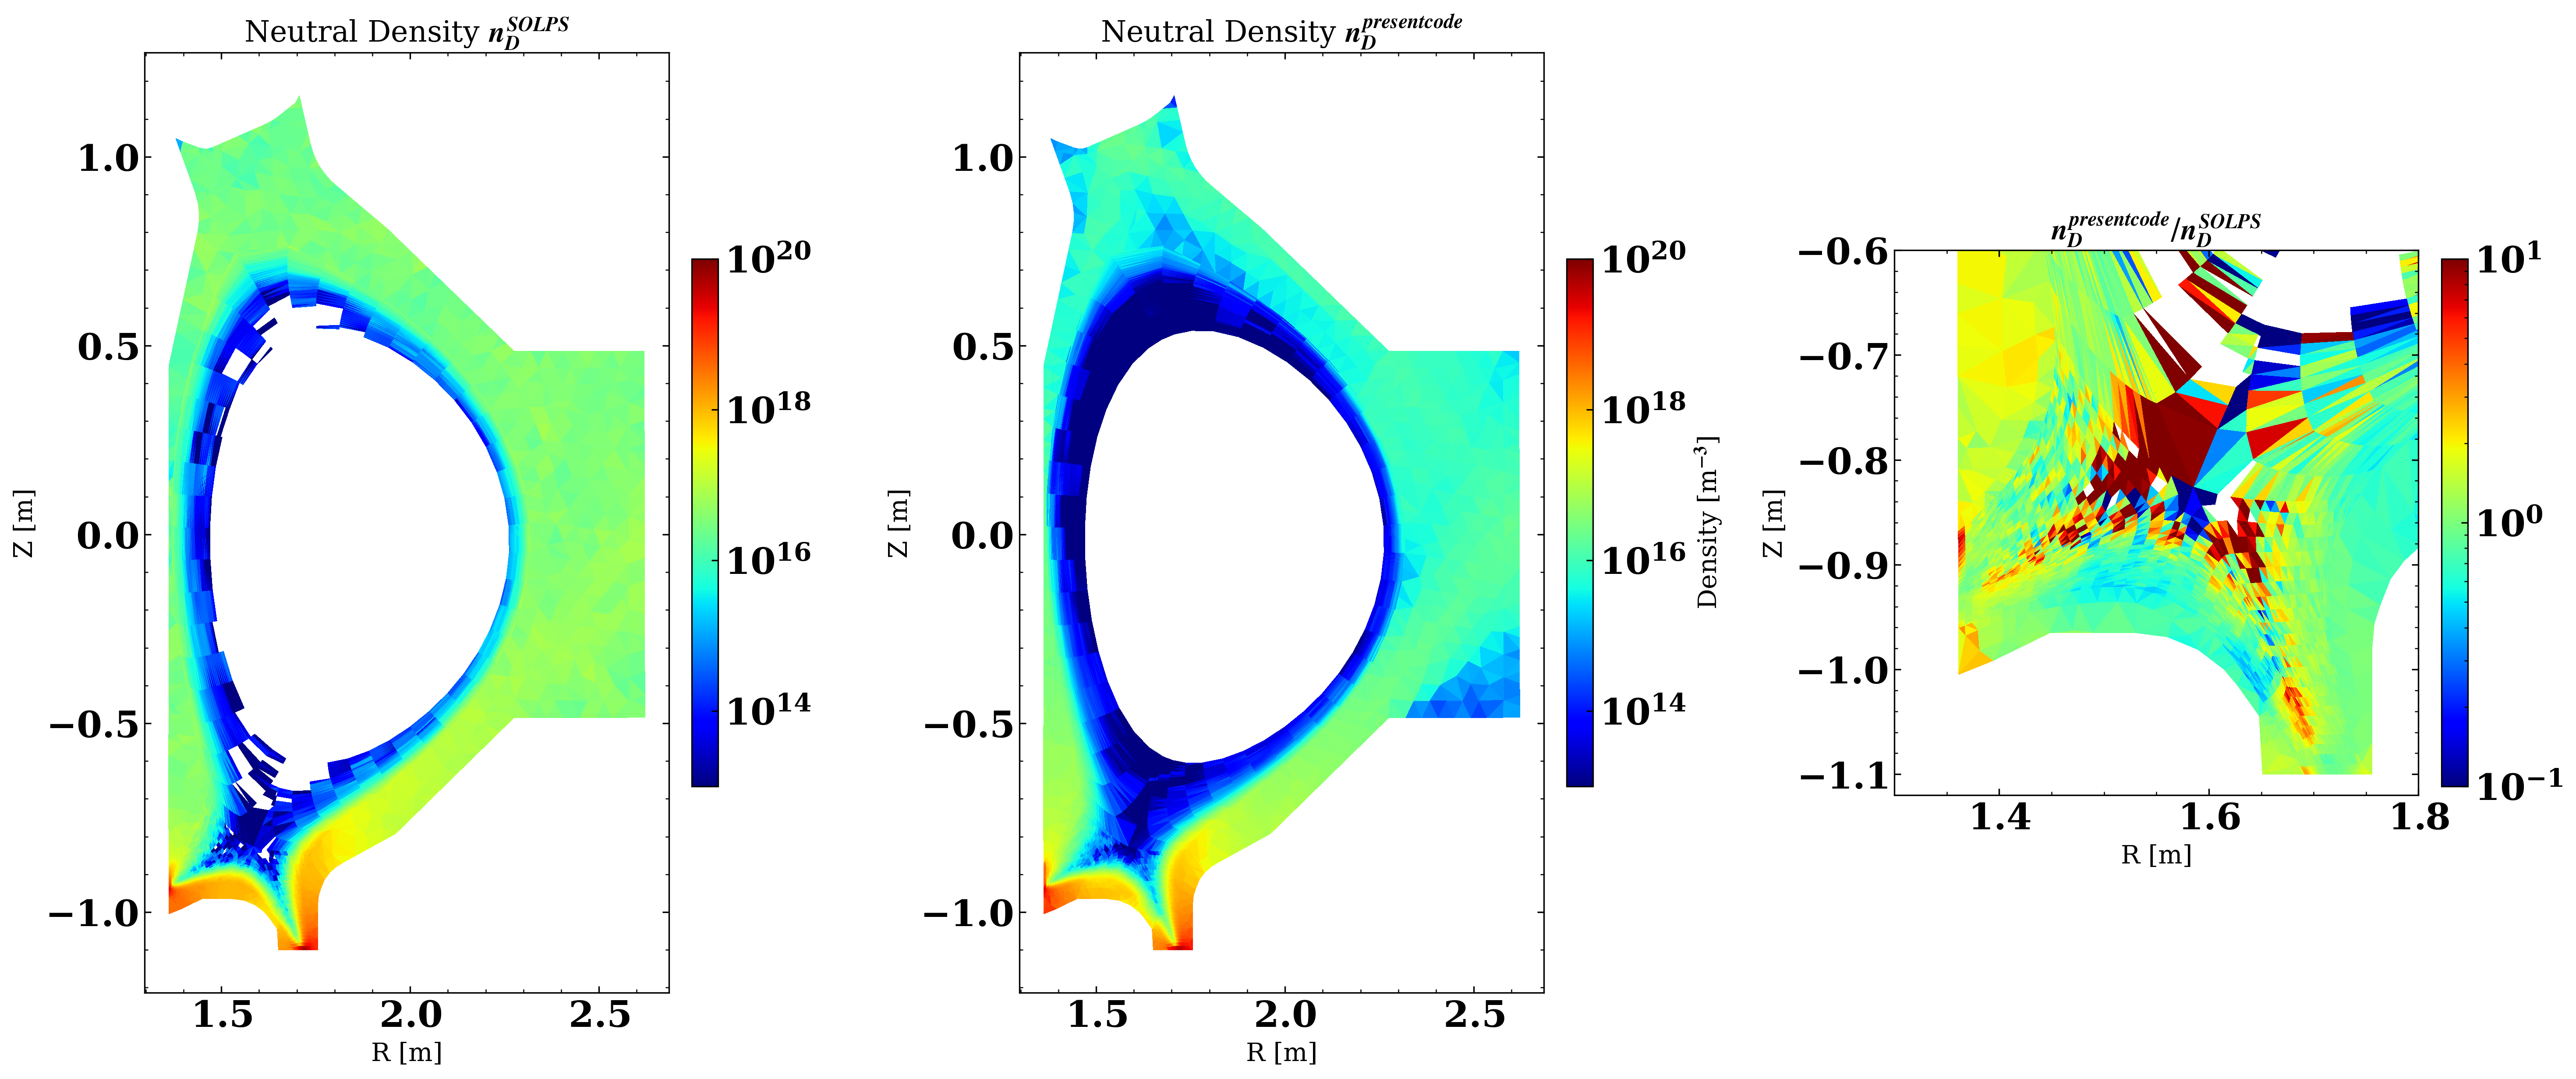
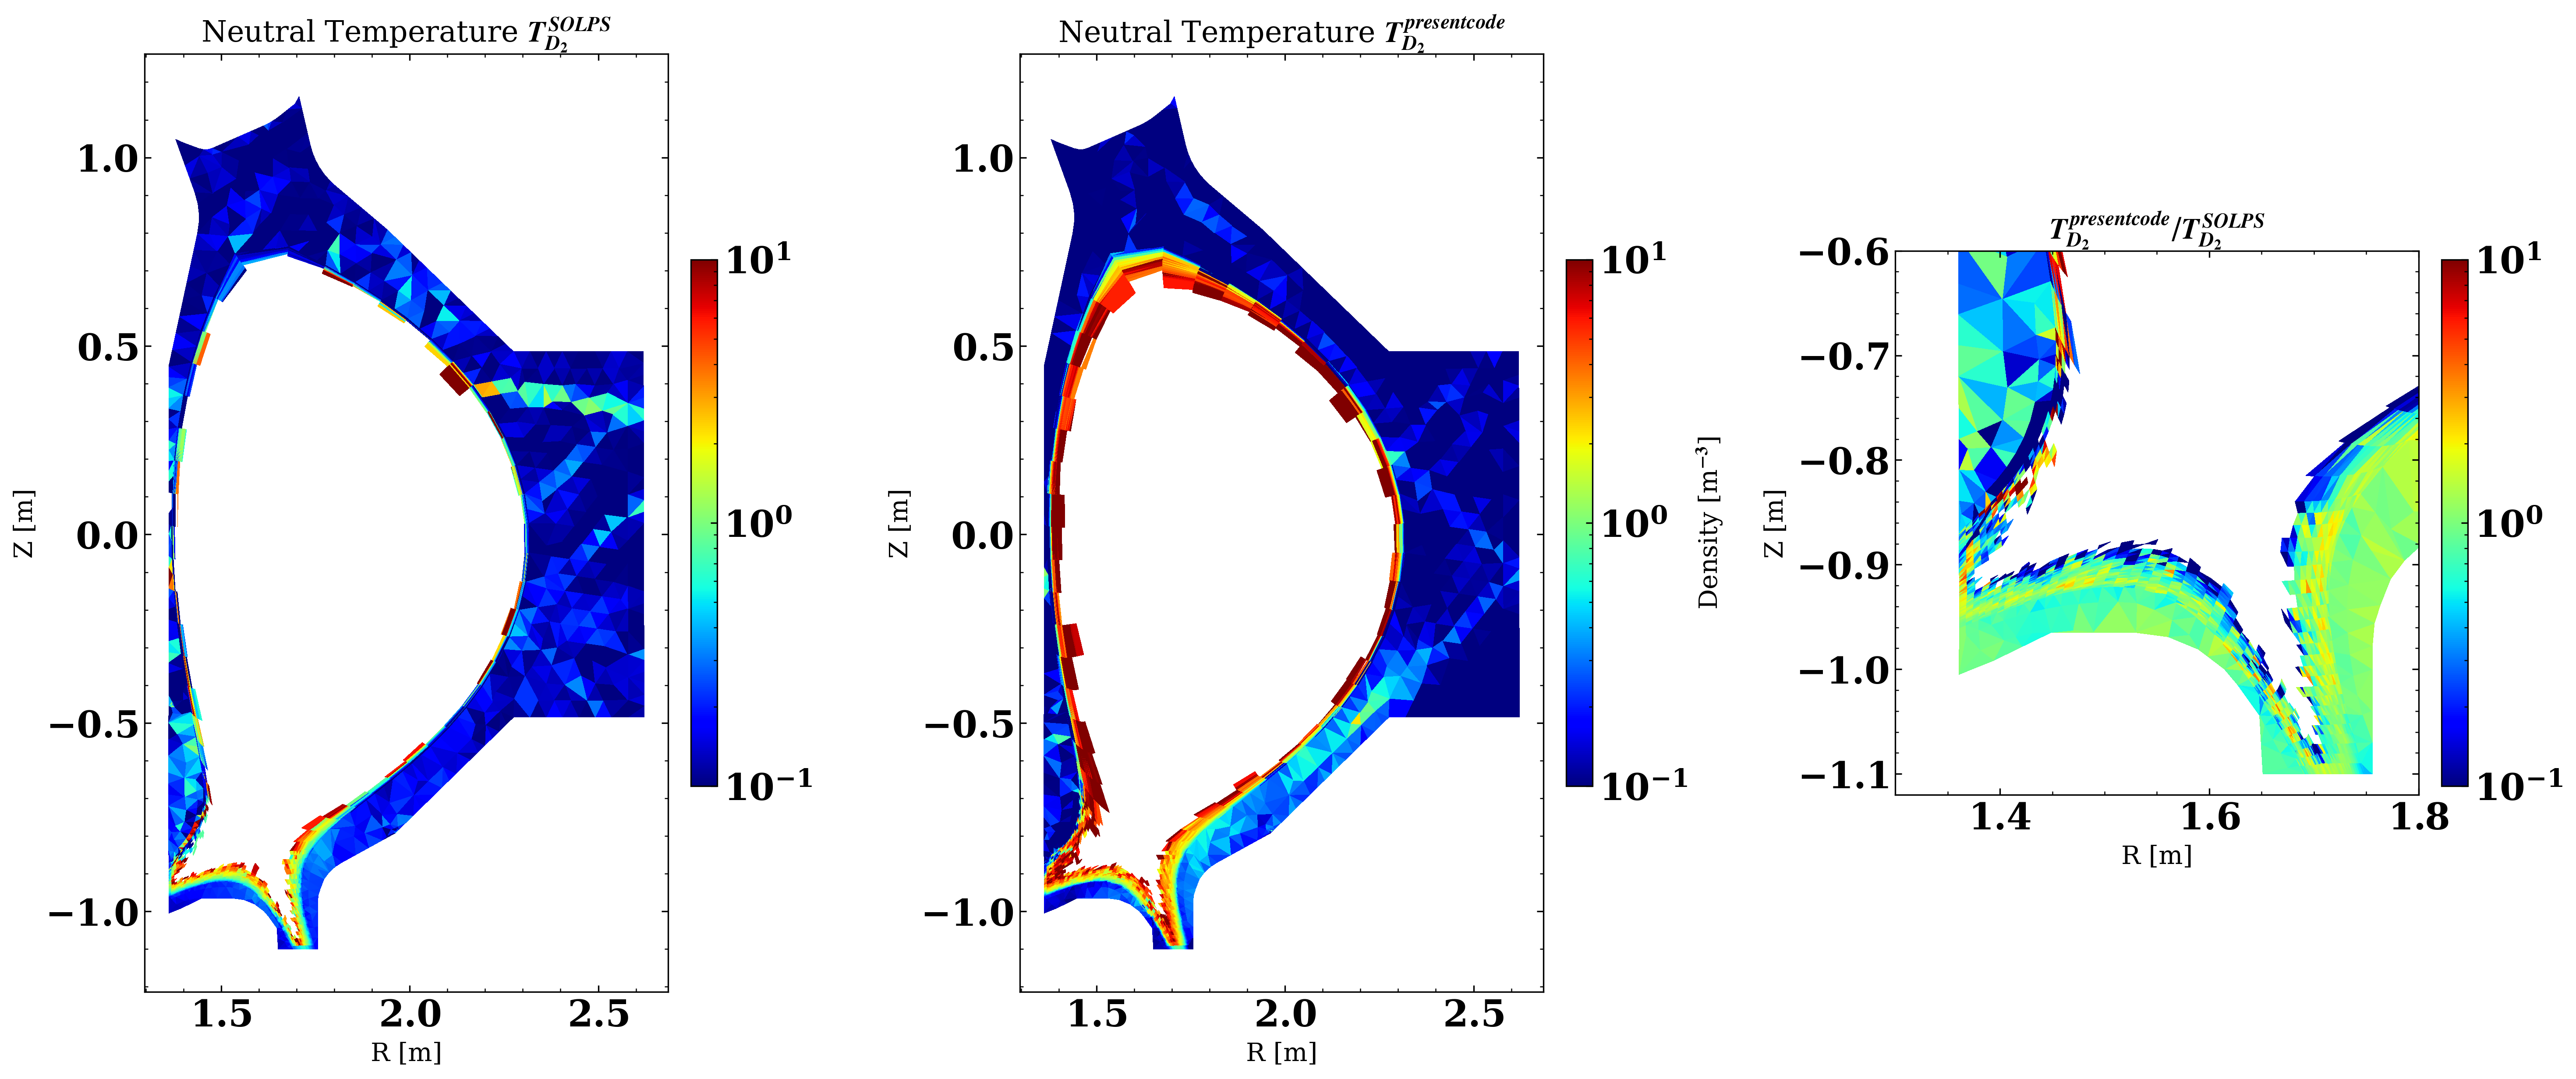
20260611_器壁反射修改大一统完成，测试中；加速修改前备份

diff --git a/src/Prepare.cpp b/src/Prepare.cpp
@@ -758,6 +758,26 @@ void Prepare()
 		std::cout << endl;
 	}*/
 
+	std::vector<double> angle_B_with_target(N_radial * 2);
+	if (1) // 0: 固定角度60度； 1：实际角度
+		for (int i = 0; i < N_radial; i++)
+		{
+			angle_B_with_target[i] = Tools::CalBFieldToWallNormalAngle(B[1][i][0], B[1][i][1], B[1][i][2], Grid4.Cos_Target(i), Grid4.Sin_Target(i));
+			angle_B_with_target[i + N_radial] = Tools::CalBFieldToWallNormalAngle(B[N_radial - 2][i][0], B[N_radial - 2][i][1], B[N_radial - 2][i][2], Grid4.Cos_Target(i + N_radial), Grid4.Sin_Target(i + N_radial));
+		}
+	else
+	{
+		for (int i = 0; i < N_radial * 2; i++)
+		{
+			angle_B_with_target[i] = 60;
+		}
+	}
+	/*ofstream Out_temp("doc/angel.txt");
+	for (int i = 0; i < N_radial * 2; i++)
+	{
+		Out_temp << i << "\t" << angle_B_with_target[i] << endl;
+	}
+	Out_temp.close();*/
 	// H recycling
 	if (K_H)
 	{
@@ -765,16 +785,16 @@ void Prepare()
 		{
 			for (int i = 0; i < N_radial * 2; i++)
 			{
-				if (coeff_recyc_target > H_W.n_RefCoeff(K_Reflect, Ei_Dion[i]))
+				if (coeff_recyc_target > H_W.n_RefCoeff(K_Reflect, Ei_Dion[i], angle_B_with_target[i]))
 				{
-					NumPar_H_recyc[i] = NumPar_wall_H[i] * H_W.n_RefCoeff(K_Reflect, Ei_Dion[i]);
-					Tn_H_recyc[i] = H_W.E_RefCoeff(K_Reflect, Ei_Dion[i]) / H_W.n_RefCoeff(K_Reflect, Ei_Dion[i]) * Ei_Dion[i] / 1.5;
-					NumPar_H2_recyc[i] = (coeff_recyc_target - H_W.n_RefCoeff(K_Reflect, Ei_Dion[i])) * NumPar_wall_H[i] / 2.;
+					NumPar_H_recyc[i] = NumPar_wall_H[i] * H_W.n_RefCoeff(K_Reflect, Ei_Dion[i], angle_B_with_target[i]);
+					Tn_H_recyc[i] = H_W.E_RefCoeff(K_Reflect, Ei_Dion[i], angle_B_with_target[i]) / H_W.n_RefCoeff(K_Reflect, Ei_Dion[i], angle_B_with_target[i]) * Ei_Dion[i] / 1.5;
+					NumPar_H2_recyc[i] = (coeff_recyc_target - H_W.n_RefCoeff(K_Reflect, Ei_Dion[i], angle_B_with_target[i])) * NumPar_wall_H[i] / 2.;
 				}
 				else
 				{
 					NumPar_H_recyc[i] = NumPar_wall_H[i] * coeff_recyc_target;
-					Tn_H_recyc[i] = H_W.E_RefCoeff(K_Reflect, Ei_Dion[i]) / coeff_recyc_target * Ei_Dion[i] / 1.5;
+					Tn_H_recyc[i] = H_W.E_RefCoeff(K_Reflect, Ei_Dion[i], angle_B_with_target[i]) / coeff_recyc_target * Ei_Dion[i] / 1.5;
 					NumPar_H2_recyc[i] = 0.;
 				}
 			}
@@ -783,17 +803,17 @@ void Prepare()
 		{
 			for (int i = 0; i < N_radial * 2; i++)
 			{
-				if (coeff_recyc_target > H_C.n_RefCoeff(K_Reflect, Ei_Dion[i]))
+				if (coeff_recyc_target > H_C.n_RefCoeff(K_Reflect, Ei_Dion[i], angle_B_with_target[i]))
 				{
-					NumPar_H_recyc[i] = NumPar_wall_H[i] * H_C.n_RefCoeff(K_Reflect, Ei_Dion[i]);
-					Tn_H_recyc[i] = H_C.E_RefCoeff(K_Reflect, Ei_Dion[i]) / H_C.n_RefCoeff(K_Reflect, Ei_Dion[i]) * Ei_Dion[i] / 1.5;
-					NumPar_H2_recyc[i] = (coeff_recyc_target - H_C.n_RefCoeff(K_Reflect, Ei_Dion[i])) *
+					NumPar_H_recyc[i] = NumPar_wall_H[i] * H_C.n_RefCoeff(K_Reflect, Ei_Dion[i], angle_B_with_target[i]);
+					Tn_H_recyc[i] = H_C.E_RefCoeff(K_Reflect, Ei_Dion[i], angle_B_with_target[i]) / H_C.n_RefCoeff(K_Reflect, Ei_Dion[i], angle_B_with_target[i]) * Ei_Dion[i] / 1.5;
+					NumPar_H2_recyc[i] = (coeff_recyc_target - H_C.n_RefCoeff(K_Reflect, Ei_Dion[i], angle_B_with_target[i])) *
 										 NumPar_wall_H[i] / 2.;
 				}
 				else
 				{
 					NumPar_H_recyc[i] = NumPar_wall_H[i] * coeff_recyc_target;
-					Tn_H_recyc[i] = H_C.E_RefCoeff(K_Reflect, Ei_Dion[i]) / coeff_recyc_target * Ei_Dion[i] / 1.5;
+					Tn_H_recyc[i] = H_C.E_RefCoeff(K_Reflect, Ei_Dion[i], angle_B_with_target[i]) / coeff_recyc_target * Ei_Dion[i] / 1.5;
 					NumPar_H2_recyc[i] = 0.;
 				}
 			}
@@ -813,16 +833,16 @@ void Prepare()
 		{
 			for (int i = 0; i < N_radial * 2; i++)
 			{
-				if (coeff_recyc_target > D_W.n_RefCoeff(K_Reflect, Ei_Dion[i]))
+				if (coeff_recyc_target > D_W.n_RefCoeff(K_Reflect, Ei_Dion[i], angle_B_with_target[i]))
 				{
-					NumPar_D_recyc[i] = NumPar_wall_D[i] * D_W.n_RefCoeff(K_Reflect, Ei_Dion[i]);
-					Tn_D_recyc[i] = D_W.E_RefCoeff(K_Reflect, Ei_Dion[i]) / D_W.n_RefCoeff(K_Reflect, Ei_Dion[i]) * Ei_Dion[i] / 1.5;
-					NumPar_D2_recyc[i] = (coeff_recyc_target - D_W.n_RefCoeff(K_Reflect, Ei_Dion[i])) * NumPar_wall_D[i] / 2.;
+					NumPar_D_recyc[i] = NumPar_wall_D[i] * D_W.n_RefCoeff(K_Reflect, Ei_Dion[i], angle_B_with_target[i]);
+					Tn_D_recyc[i] = D_W.E_RefCoeff(K_Reflect, Ei_Dion[i], angle_B_with_target[i]) / D_W.n_RefCoeff(K_Reflect, Ei_Dion[i], angle_B_with_target[i]) * Ei_Dion[i] / 1.5;
+					NumPar_D2_recyc[i] = (coeff_recyc_target - D_W.n_RefCoeff(K_Reflect, Ei_Dion[i], angle_B_with_target[i])) * NumPar_wall_D[i] / 2.;
 				}
 				else
 				{
 					NumPar_D_recyc[i] = NumPar_wall_D[i] * coeff_recyc_target;
-					Tn_D_recyc[i] = D_W.E_RefCoeff(K_Reflect, Ei_Dion[i]) / coeff_recyc_target * Ei_Dion[i] / 1.5;
+					Tn_D_recyc[i] = D_W.E_RefCoeff(K_Reflect, Ei_Dion[i], angle_B_with_target[i]) / coeff_recyc_target * Ei_Dion[i] / 1.5;
 					NumPar_D2_recyc[i] = 0.;
 				}
 				// out << NumPar_D_recyc[i] << '\t' << NumPar_D2_recyc[i] << endl;
@@ -832,16 +852,16 @@ void Prepare()
 		{
 			for (int i = 0; i < N_radial * 2; i++)
 			{
-				if (coeff_recyc_target > D_C.n_RefCoeff(K_Reflect, Ei_Dion[i]))
+				if (coeff_recyc_target > D_C.n_RefCoeff(K_Reflect, Ei_Dion[i], angle_B_with_target[i]))
 				{
-					NumPar_D_recyc[i] = NumPar_wall_D[i] * D_C.n_RefCoeff(K_Reflect, Ei_Dion[i]);
-					Tn_D_recyc[i] = D_C.E_RefCoeff(K_Reflect, Ei_Dion[i]) / D_C.n_RefCoeff(K_Reflect, Ei_Dion[i]) * Ei_Dion[i] / 1.5;
-					NumPar_D2_recyc[i] = (coeff_recyc_target - D_C.n_RefCoeff(K_Reflect, Ei_Dion[i])) * NumPar_wall_D[i] / 2.;
+					NumPar_D_recyc[i] = NumPar_wall_D[i] * D_C.n_RefCoeff(K_Reflect, Ei_Dion[i], angle_B_with_target[i]);
+					Tn_D_recyc[i] = D_C.E_RefCoeff(K_Reflect, Ei_Dion[i], angle_B_with_target[i]) / D_C.n_RefCoeff(K_Reflect, Ei_Dion[i], angle_B_with_target[i]) * Ei_Dion[i] / 1.5;
+					NumPar_D2_recyc[i] = (coeff_recyc_target - D_C.n_RefCoeff(K_Reflect, Ei_Dion[i], angle_B_with_target[i])) * NumPar_wall_D[i] / 2.;
 				}
 				else
 				{
 					NumPar_D_recyc[i] = NumPar_wall_D[i] * coeff_recyc_target;
-					Tn_D_recyc[i] = D_C.E_RefCoeff(K_Reflect, Ei_Dion[i]) / coeff_recyc_target * Ei_Dion[i] / 1.5;
+					Tn_D_recyc[i] = D_C.E_RefCoeff(K_Reflect, Ei_Dion[i], angle_B_with_target[i]) / coeff_recyc_target * Ei_Dion[i] / 1.5;
 					NumPar_D2_recyc[i] = 0.;
 				}
 				// out << NumPar_D_recyc[i] << '\t' << NumPar_D2_recyc[i] << endl;
@@ -863,16 +883,16 @@ void Prepare()
 		{
 			for (int i = 0; i < N_radial * 2; i++)
 			{
-				if (coeff_recyc_target > T_W.n_RefCoeff(K_Reflect, Ei_Dion[i]))
+				if (coeff_recyc_target > T_W.n_RefCoeff(K_Reflect, Ei_Dion[i], angle_B_with_target[i]))
 				{
-					NumPar_T_recyc[i] = NumPar_wall_T[i] * T_W.n_RefCoeff(K_Reflect, Ei_Dion[i]);
-					Tn_T_recyc[i] = T_W.E_RefCoeff(K_Reflect, Ei_Dion[i]) / T_W.n_RefCoeff(K_Reflect, Ei_Dion[i]) * Ei_Dion[i] / 1.5;
-					NumPar_T2_recyc[i] = (coeff_recyc_target - T_W.n_RefCoeff(K_Reflect, Ei_Dion[i])) * NumPar_wall_T[i] / 2.;
+					NumPar_T_recyc[i] = NumPar_wall_T[i] * T_W.n_RefCoeff(K_Reflect, Ei_Dion[i], angle_B_with_target[i]);
+					Tn_T_recyc[i] = T_W.E_RefCoeff(K_Reflect, Ei_Dion[i], angle_B_with_target[i]) / T_W.n_RefCoeff(K_Reflect, Ei_Dion[i], angle_B_with_target[i]) * Ei_Dion[i] / 1.5;
+					NumPar_T2_recyc[i] = (coeff_recyc_target - T_W.n_RefCoeff(K_Reflect, Ei_Dion[i], angle_B_with_target[i])) * NumPar_wall_T[i] / 2.;
 				}
 				else
 				{
 					NumPar_T_recyc[i] = NumPar_wall_T[i] * coeff_recyc_target;
-					Tn_T_recyc[i] = T_W.E_RefCoeff(K_Reflect, Ei_Dion[i]) / coeff_recyc_target * Ei_Dion[i] / 1.5;
+					Tn_T_recyc[i] = T_W.E_RefCoeff(K_Reflect, Ei_Dion[i], angle_B_with_target[i]) / coeff_recyc_target * Ei_Dion[i] / 1.5;
 					NumPar_T2_recyc[i] = 0.;
 				}
 			}
@@ -881,16 +901,16 @@ void Prepare()
 		{
 			for (int i = 0; i < N_radial * 2; i++)
 			{
-				if (coeff_recyc_target > T_C.n_RefCoeff(K_Reflect, Ei_Dion[i]))
+				if (coeff_recyc_target > T_C.n_RefCoeff(K_Reflect, Ei_Dion[i], angle_B_with_target[i]))
 				{
-					NumPar_T_recyc[i] = NumPar_wall_T[i] * T_C.n_RefCoeff(K_Reflect, Ei_Dion[i]);
-					Tn_T_recyc[i] = T_C.E_RefCoeff(K_Reflect, Ei_Dion[i]) / T_C.n_RefCoeff(K_Reflect, Ei_Dion[i]) * Ei_Dion[i] / 1.5;
-					NumPar_T2_recyc[i] = (coeff_recyc_target - T_C.n_RefCoeff(K_Reflect, Ei_Dion[i])) * NumPar_wall_T[i] / 2.;
+					NumPar_T_recyc[i] = NumPar_wall_T[i] * T_C.n_RefCoeff(K_Reflect, Ei_Dion[i], angle_B_with_target[i]);
+					Tn_T_recyc[i] = T_C.E_RefCoeff(K_Reflect, Ei_Dion[i], angle_B_with_target[i]) / T_C.n_RefCoeff(K_Reflect, Ei_Dion[i], angle_B_with_target[i]) * Ei_Dion[i] / 1.5;
+					NumPar_T2_recyc[i] = (coeff_recyc_target - T_C.n_RefCoeff(K_Reflect, Ei_Dion[i], angle_B_with_target[i])) * NumPar_wall_T[i] / 2.;
 				}
 				else
 				{
 					NumPar_T_recyc[i] = NumPar_wall_T[i] * coeff_recyc_target;
-					Tn_T_recyc[i] = T_C.E_RefCoeff(K_Reflect, Ei_Dion[i]) / coeff_recyc_target * Ei_Dion[i] / 1.5;
+					Tn_T_recyc[i] = T_C.E_RefCoeff(K_Reflect, Ei_Dion[i], angle_B_with_target[i]) / coeff_recyc_target * Ei_Dion[i] / 1.5;
 					NumPar_T2_recyc[i] = 0.;
 				}
 			}

diff --git a/src/utils.cpp b/src/utils.cpp
@@ -356,6 +356,78 @@ namespace Tools
 
         return 0; // 不相交
     }
+    /**
+     * @brief 计算磁场方向与器壁法线之间的夹角（返回 0~90 度）
+     * * @param bx         磁场 X 分量
+     * @param by         磁场 Y 分量
+     * @param bz         磁场 Z 分量
+     * @param cos_wall   器壁倾斜角的 cos 值
+     * @param sin_wall   器壁倾斜角的 sin 值
+     * @return double    返回夹角（角度制：Degree）
+     */
+    double CalBFieldToWallNormalAngle(double bx, double by, double bz, double cos_wall, double sin_wall)
+    {
+        // 1. 计算三维磁场向量的模长 |B|
+        double b_mod_sq = bx * bx + by * by + bz * bz;
+
+        // 安全校验：防止强磁场为 0 区域导致除零崩溃
+        if (b_mod_sq <= 1e-12)
+        {
+            return 0.0;
+        }
+        double b_mod = std::sqrt(b_mod_sq);
+
+        // 2. 计算点积 (Dot Product)
+        // 根据你第一道题的物理模型：器壁方向为 (cos, sin, 0)，则法线方向为 (sin, -cos, 0)
+        // 磁场 B(bx, by, bz) 与法线 n(sin, -cos, 0) 的点积为： bx * sin - by * cos
+        double dot_product_abs = std::abs(bx * sin_wall - by * cos_wall);
+
+        /* 💡 备用情况提醒：
+           如果你传入的 (cos_wall, sin_wall, 0) 本身就已经直接是【法线向量】了，
+           请将上面的代码改成下面这一行：
+           double dot_product_abs = std::abs(bx * cos_wall + by * sin_wall);
+        */
+
+        // 3. 计算 cos(theta) 值，器壁法线的模长默认已归一化（cos^2 + sin^2 = 1）
+        double cos_theta = dot_product_abs / b_mod;
+
+        // 4. 防御性截断：防止浮点数精度误差（如变成 1.00000001）导致 acos 吐出 NaN
+        cos_theta = std::clamp(cos_theta, 0.0, 1.0);
+
+        // 5. 将弧度转换为角度（适合 TRIM 数据库查表）
+        const double PI = 3.14159265358979323846;
+        return (180.0 / PI) * std::acos(cos_theta);
+    }
+    /**
+     * @brief 校验并修正入射离子速度，防止其远离靶板
+     * @param V          离子速度数组，长度为 3 (V[0]=Vx, V[1]=Vy, V[2]=Vz) -> 将在函数内直接修改
+     * @param bx, by, bz 磁场三维分量
+     * @param cos_wall   器壁倾斜角 cos 值
+     * @param sin_wall   器壁倾斜角 sin 值
+     */
+    void AdjustIncidentVelocity(std::vector<double> &V, double bx, double by, double bz, double cos_wall, double sin_wall)
+    {
+        // 1. 定义器壁的法向量 n = (sin_wall, -cos_wall, 0)
+        // 注意：该法向需要与你网格定义的“里外”一致。这里沿用你之前的点积公式格式：
+        double nx = sin_wall;
+        double ny = -cos_wall;
+
+        // 2. 计算速度 V 和磁场 B 在器壁法线方向的投影（点积）
+        double Vn = V[0] * nx + V[1] * ny;
+        double Bn = bx * nx + by * ny;
+
+        // 3. 核心物理逻辑判断：
+        // 如果 Vn * Bn < 0，说明磁场引导的方向是指向靶板的，但粒子的法向速度却背离了靶板（两者反向了）
+        if (Vn * Bn < 0.0)
+        {
+            // 4. 修正速度：将法向速度分量直接反转（相当于让它朝靶板方向推进）
+            // 物理公式：V_new = V - 2 * Vn * n
+            V[0] = V[0] - 2.0 * Vn * nx;
+            V[1] = V[1] - 2.0 * Vn * ny;
+
+            // Z 轴速度平行于二维靶板表面，通常不需要反转
+        }
+    }
 }
 
 void get_point_to_y_line(double p1x, double p1y, double p2x, double p2y, double *y0)

diff --git a/src/Particle.cpp b/src/Particle.cpp
@@ -110,7 +110,7 @@ Particle::Particle(string particle_name, double mass, int MaxCharge, int Index)
 
 Particle::~Particle()
 {
-	for (int i = 0; i < 98; i++)
+	/*for (int i = 0; i < 98; i++)
 	{
 		for (int j = 0; j < 38; j++)
 		{
@@ -163,7 +163,7 @@ Particle::~Particle()
 	{
 		free(lambda_min_);
 		lambda_min_ = nullptr;
-	}
+	}*/
 }
 
 /// @brief Particle *this get Particle *A's All
@@ -411,28 +411,21 @@ void Particle::Init(int k, int z)
 		boundary_start_ = 0;
 		X_[0] = Grid4.Mid_Target(z, 0);
 		X_[1] = Grid4.Mid_Target(z, 1);
-		// double rand_temp = Tools::Random();
-		// X_[0] = Xrecycling(rand_temp, z, 0);
-		// X_[1] = Xrecycling(rand_temp, z, 1);
 		X_[2] = 0;
 
-		double Bt_temp, B2_temp;
 		if (z < 38)
 		{
 			XY_[0] = 1;
 			XY_[1] = z;
 			Tri_Index_ = Grid4.targetIndex(z, 0);
-			B2_temp = sqrt(B[1][z][0] * B[1][z][0] + B[1][z][1] * B[1][z][1]);
-			Bt_temp = B[1][z][2];
 		}
 		else
 		{
 			XY_[0] = 96;
 			XY_[1] = z - 38;
 			Tri_Index_ = Grid4.targetIndex(z, 0);
-			B2_temp = sqrt(B[96][XY_[1]][0] * B[96][XY_[1]][0] + B[96][XY_[1]][1] * B[96][XY_[1]][1]);
-			Bt_temp = B[96][XY_[1]][2];
 		}
+		Tools::AdjustIncidentVelocity(V_, B[XY_[0]][XY_[1]][0], B[XY_[0]][XY_[1]][1], B[XY_[0]][XY_[1]][2], Grid4.Cos_Target(z), Grid4.Cos_Target(z));
 		if (XY_[1] >= 19 && XY_[1] <= 36)
 			Zone_ = 3;
 		else if (XY_[0] <= 24)
@@ -446,7 +439,7 @@ void Particle::Init(int k, int z)
 		if (this == &H || this == &D || this == &T)
 		{
 			Tn_ = T_Init_[z];
-			Tools::calculateReflectionVelocity(V_, Grid4.Cos_Target(z), Grid4.Sin_Target(z), 1);
+			Tools::calculateReflectionVelocity(V_, Grid4.Cos_Target(z), Grid4.Sin_Target(z), 0);
 		}
 		else if (this == &H2 || this == &D2 || this == &T2)
 		{

diff --git a/src/Moncar.cpp b/src/Moncar.cpp
@@ -275,14 +275,6 @@ void Moncar()
     {
         Ar.Stat(2);
     }
-    /*free(*epx);
-    free(*epy);
-    free(*erx);
-    free(*ery);
-    free(epx);
-    free(epy);
-    free(erx);
-    free(ery);*/
 }
 
 void flight(int i, int j)

diff --git a/src/Global.cpp b/src/Global.cpp
@@ -80,8 +80,8 @@ double Dn[38];
 /// @brief Plasma and device parameter
 double InterscePoint[10][6] = {0}; // 0: distance of particle and interscePoint; 1,2: x,y index; 3: number of boundary; 4:types of intersection boundaries
 double NumPar_now = 0;
-double T_N = 0.1;    // Temperature of injected impurities
-double T_wall = 0.1; // Temperture of Target(eV)
+double T_N = 0.02;    // Temperature of injected impurities
+double T_wall = 0.02; // Temperture of Target(eV)
 
 // 真空区域参数
 double Te_vacuum = 0.3, ne_vacuum = 1e13;

diff --git a/include/utils.h b/include/utils.h
@@ -1,6 +1,7 @@
 #ifndef UTILS_H
 #define UTILS_H
 
+#include <algorithm>
 #include <random>
 #include <stdexcept>
 #include <vector>
@@ -49,6 +50,8 @@ namespace Tools
     int getLineSegmentIntersection(double lx1, double ly1, double lx2, double ly2,
                                    double sx1, double sy1, double sx2, double sy2,
                                    double &ix, double &iy);
+    double CalBFieldToWallNormalAngle(double bx, double by, double bz, double cos_wall, double sin_wall);
+    void AdjustIncidentVelocity(std::vector<double> &V, double bx, double by, double bz, double cos_wall, double sin_wall);
 }
 
 #endif

diff --git a/src/Grid.cpp b/src/Grid.cpp
@@ -1995,6 +1995,7 @@ namespace eirene
         N_poloidal_ = N_poloidal;
         N_radial_ = N_radial;
         Num_Target_ = N_radial * 2;
+
         TargetIndex_.resize(Num_Target_);
         Cos_Target_.resize(Num_Target_);
         Sin_Target_.resize(Num_Target_);
@@ -2006,10 +2007,10 @@ namespace eirene
         for (int i = 0; i < TargetIndex_.size(); i++)
         {
             TargetIndex_[i].push_back(-1);
+            TargetIndex_[i].push_back(-1);
             Mid_Target_[i].resize(2);
             Target_[i].resize(4);
         }
-        Target_[Num_Target_].resize(2);
         for (int i = 0; i < num_tris_; i++)
         {
             if (tris_[i].neigh[2] != 0)